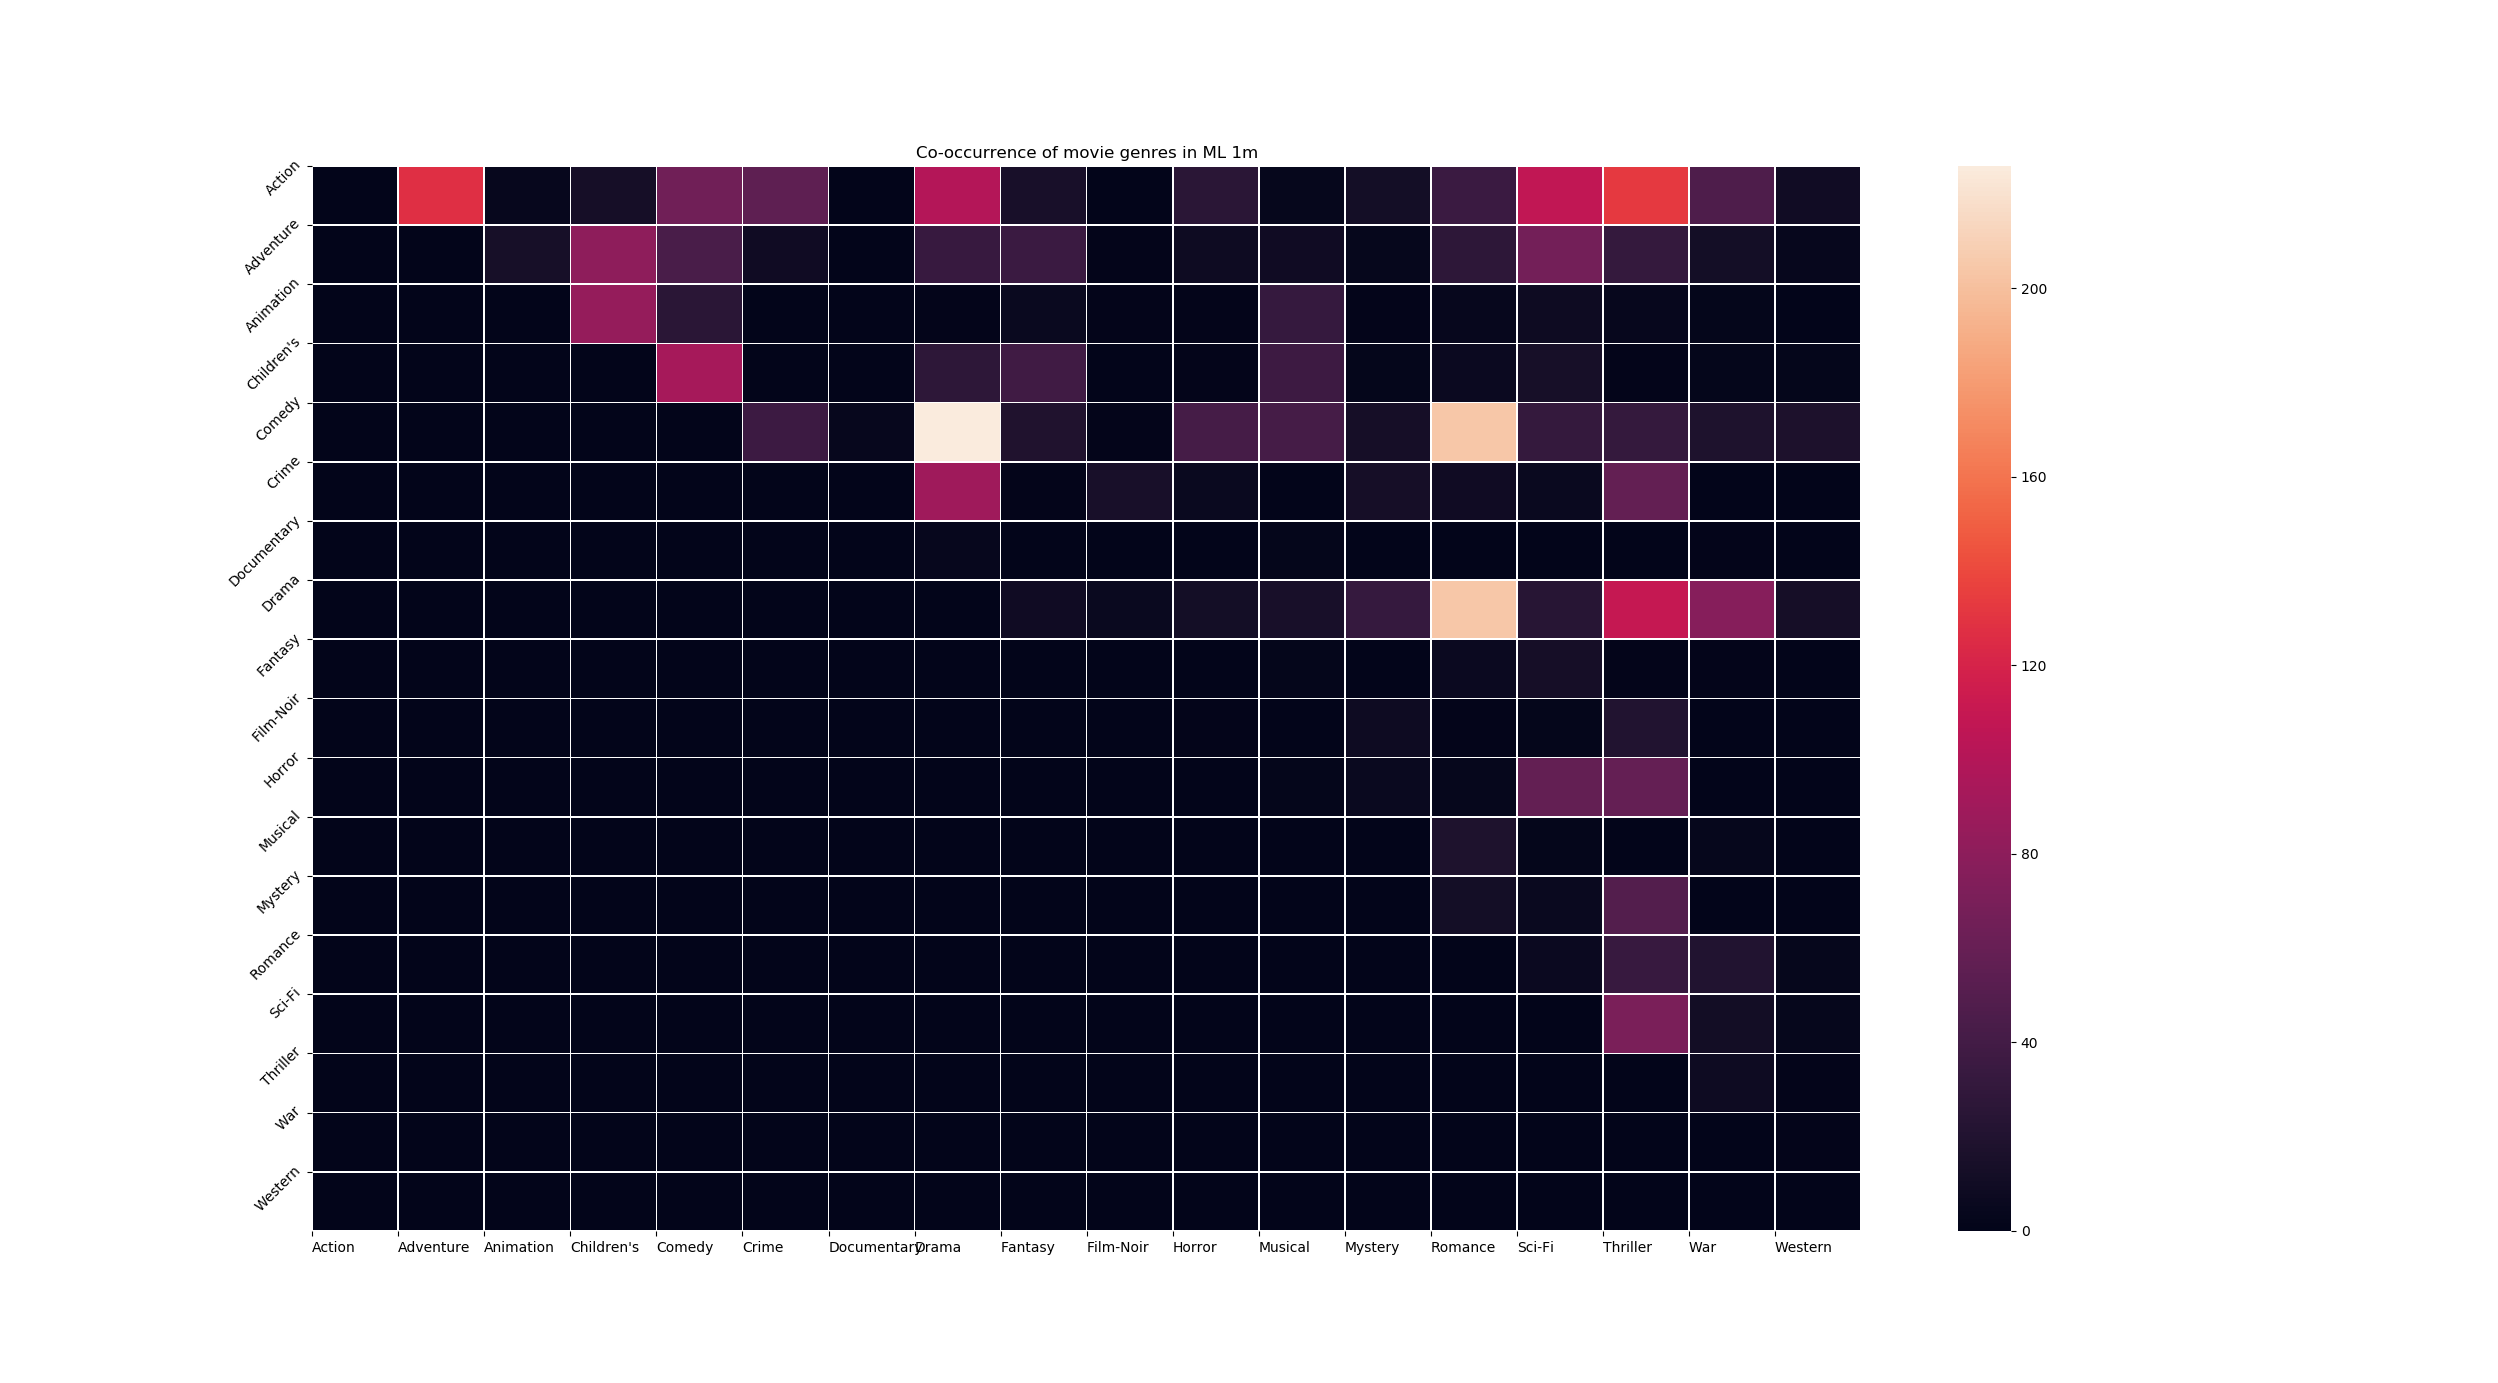
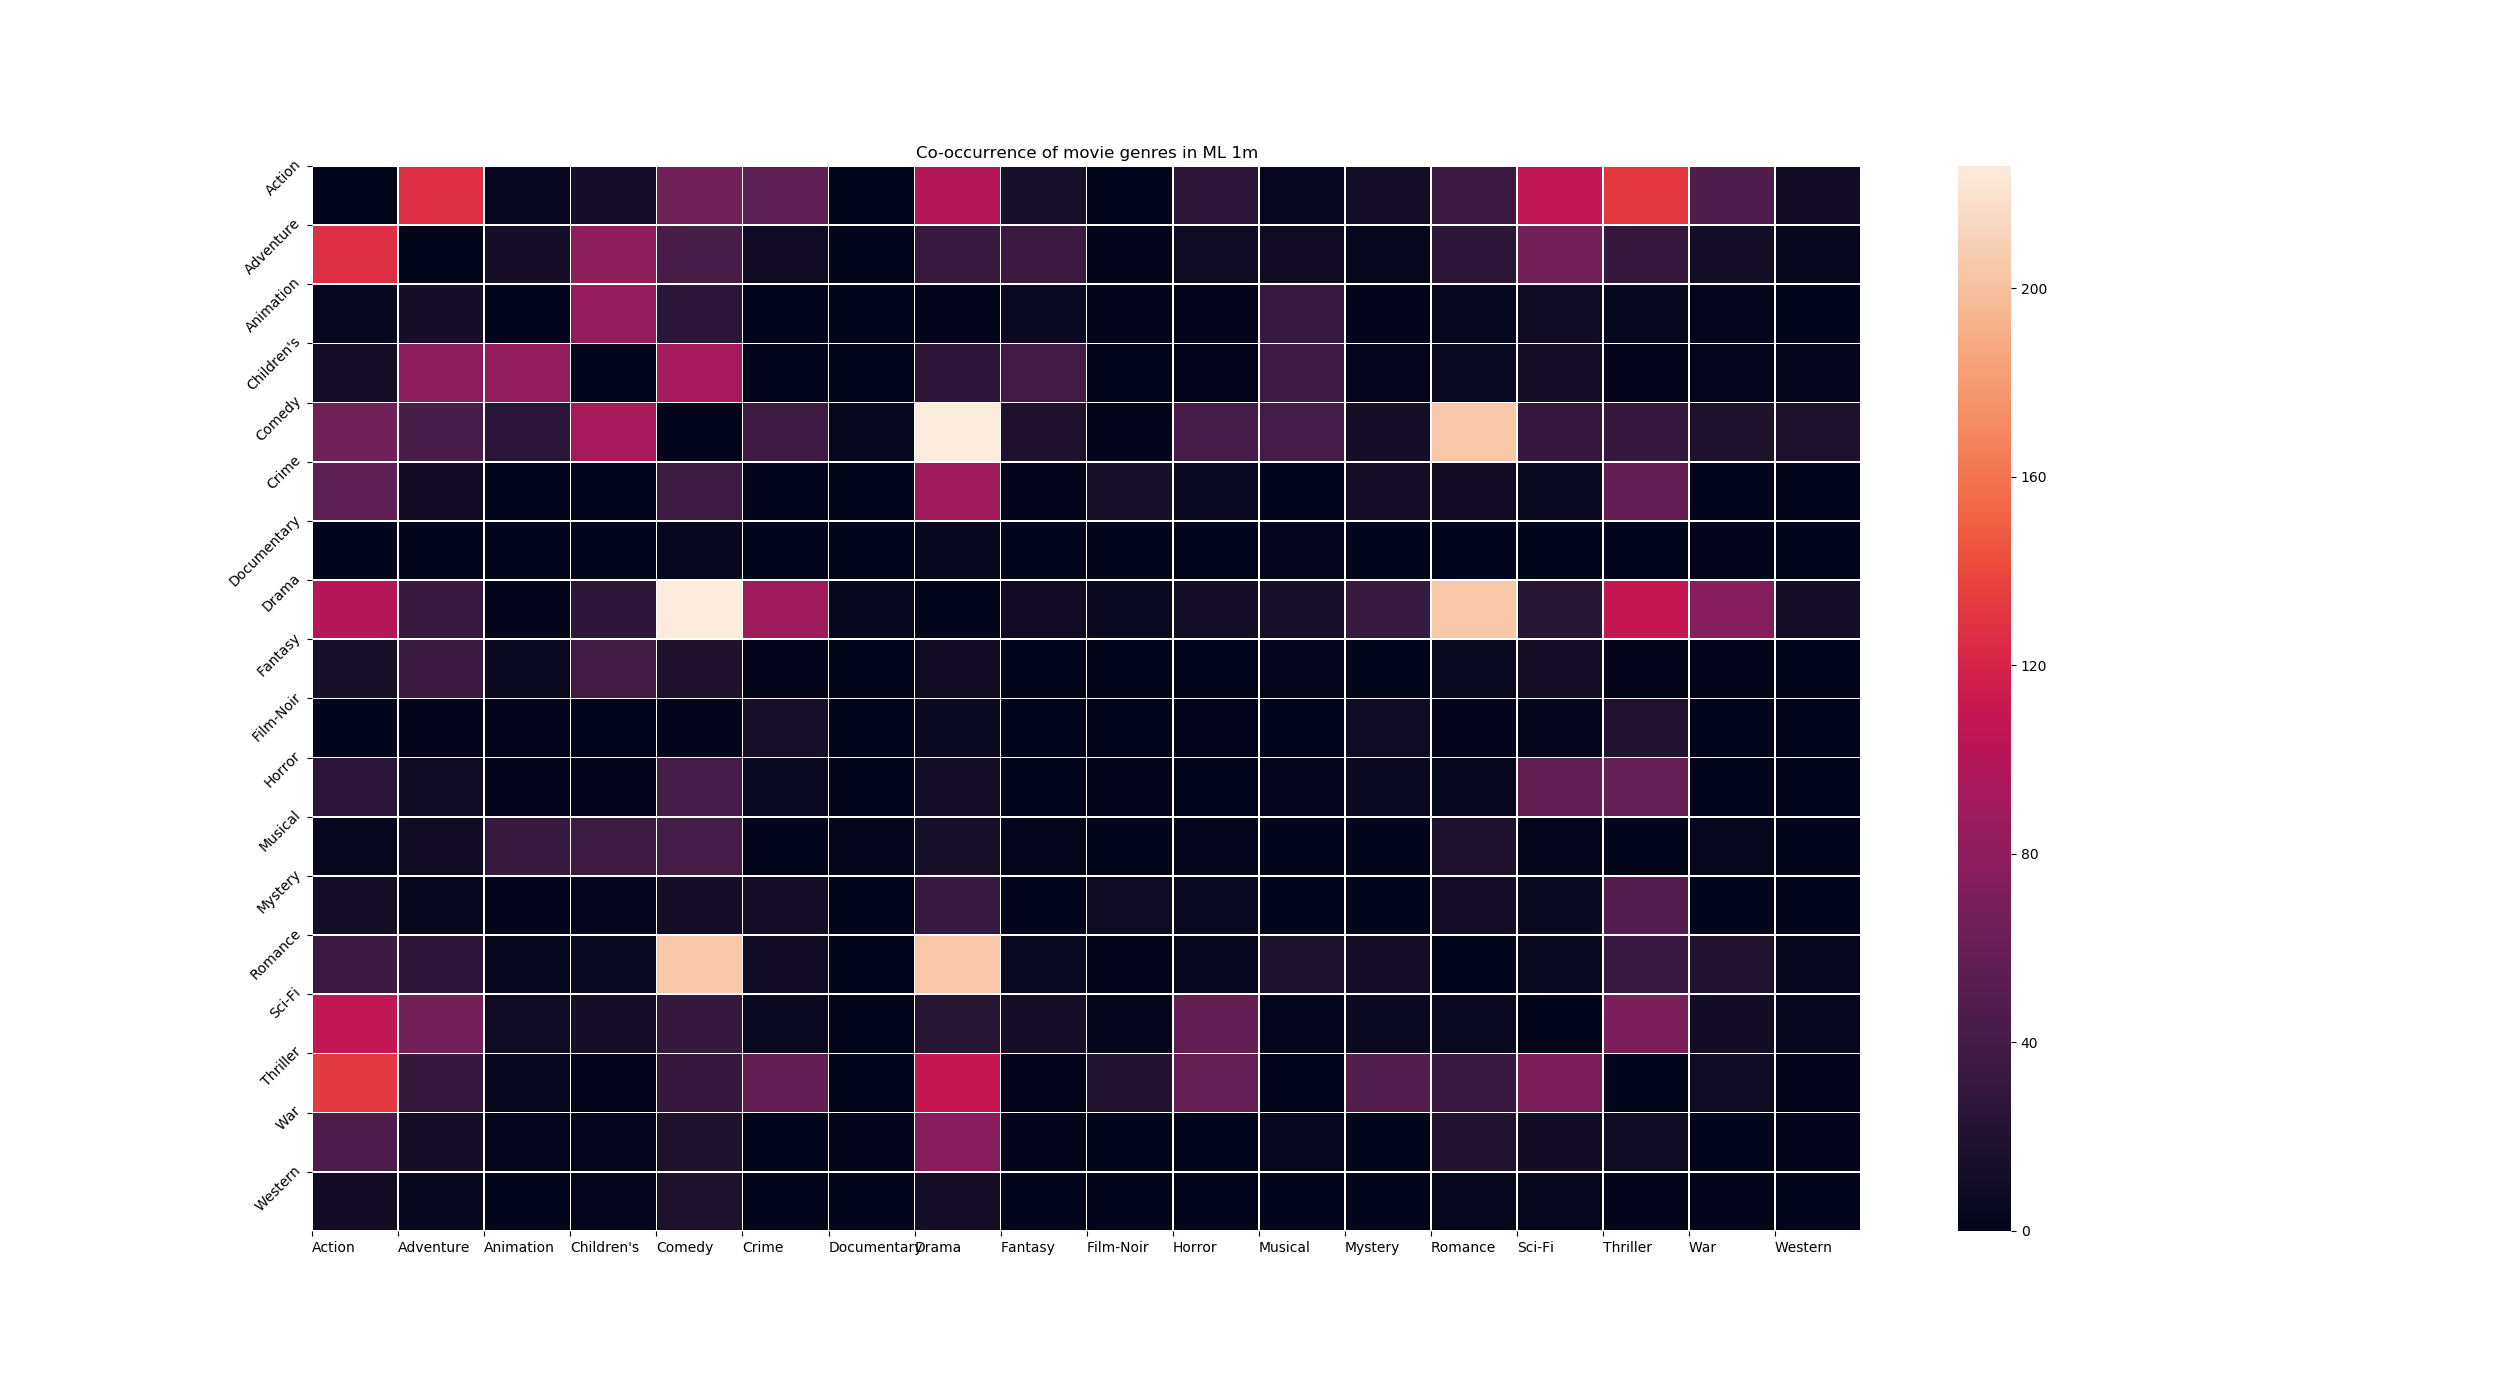
Add files via upload

diff --git a/code/FailureAnalysis.py b/code/FailureAnalysis.py
@@ -7,10 +7,10 @@ import sklearn.metrics as metrics
 
 def few_ratings():
     #X = MD.load_user_item_matrix_1m()
-    X = MD.load_user_item_matrix_100k()
+    X = MD.load_user_item_matrix_1m()
     X = Utils.normalize(X)
     #T = MD.load_gender_vector_1m()
-    T = MD.load_gender_vector_100k()
+    T = MD.load_gender_vector_1m()
     X_train, T_train = X[0:int(0.9 * len(X))], T[0:int(0.9 * len(X))]
     X_test, T_test = X[int(0.9 * len(X)):], T[int(0.9 * len(X)):]
     test_data = list(zip(X_test, T_test))
@@ -22,7 +22,8 @@ def few_ratings():
     model.fit(X_train, T_train)
     #Utils.ROC_plot(X_test, T_test, model)
     roc = True
-    for index, max_rating in enumerate([20, 50, 100, 1000]):
+    min_rating = [0, 21, 51, 101]
+    for index, max_rating in enumerate([20, 50, 100, 200]):
         selected_X = []
         selected_T = []
         for user, label in test_data:
@@ -30,9 +31,29 @@ def few_ratings():
             for rating in user:
                 if rating > 0:
                     counter += 1
-            if counter <= max_rating:
+            if min_rating[index] <= counter <= max_rating:
                 selected_X.append(user)
                 selected_T.append(label)
+        # resample:
+
+        """
+        sampled_X = []
+        sampled_T = []
+        for i in range(1000):
+            sample_id = np.random.randint(len(selected_X))
+            sampled_X.append(selected_X[sample_id])
+            sampled_T.append(selected_T[sample_id])
+        selected_X = sampled_X
+        selected_T = sampled_T
+        if len(selected_X)> 100:
+            data = list(zip(selected_X, selected_T))
+            np.random.shuffle(data)
+            selected_X = []
+            selected_T = []
+            for x, y in list(data)[:100]:
+                selected_X.append(x)
+                selected_T.append(y)
+        """
         probs = model.predict_proba(selected_X)
         preds = probs[:, 1]
         fpr, tpr, threshold = metrics.roc_curve(selected_T, preds)
@@ -40,7 +61,7 @@ def few_ratings():
         if roc:
             # method I: plt
             plt.subplot(2, 2, index+1)
-            plt.title('Receiver Operating Characteristic with useres having rated less than ' + str(max_rating) + ' making N=' + str(len(selected_X)))
+            plt.title('Receiver Operating Characteristic with users having rated between ' + str(max_rating) + " and " + str(min_rating[index]) + ' making N=' + str(len(selected_X)))
             plt.plot(fpr, tpr, 'b', label='AUC = %0.2f' % roc_auc)
             plt.legend(loc='lower right')
             plt.plot([0, 1], [0, 1], 'r--')
@@ -159,4 +180,4 @@ def loyal_ratings():
         plt.show()
 
 
-loyal_ratings()
+few_ratings()

diff --git a/code/MovieLensData.py b/code/MovieLensData.py
@@ -59,7 +59,7 @@ def load_user_item_matrix_100k_masked(max_user=943, max_item=1682):
         for line in f.readlines()[1:]:
             user_id, movie_id, rating = line.split(",")
             user_id, movie_id, rating = int(user_id), int(movie_id), float(rating)
-            if user_id < max_user and movie_id < max_item:
+            if user_id <= max_user and movie_id <= max_item:
                 df[user_id-1, movie_id] = rating
 
     save_object(df, "objs/user-item_Matrix_" + str(max_user) + "_" + str(max_item))
@@ -80,14 +80,33 @@ def load_user_item_matrix_1m(max_user=6040, max_item=3952):
 
     df = np.zeros(shape=(max_user, max_item))
     with open("ml-1m/ratings.dat", 'r') as f:
-        for line in f.readlines()[1:]:
+        for line in f.readlines():
             user_id, movie_id, rating, _ = line.split("::")
             user_id, movie_id, rating = int(user_id), int(movie_id), float(rating)
-            if user_id < max_user and movie_id < max_item:
+            if user_id <= max_user and movie_id <= max_item:
                 df[user_id-1, movie_id-1] = rating
 
-    save_object(df, "objs/user-item_Matrix_1m_" + str(max_user) + "_" + str(max_item))
+    #save_object(df, "objs/user-item_Matrix_1m_" + str(max_user) + "_" + str(max_item))
     return df
+
+
+def load_user_genre_matrix_1m(one_hot = False):
+    user_item = load_user_item_matrix_1m()
+    movie_genre = load_movie_genre_matrix_1m()
+    print(user_item.shape, movie_genre.shape)
+    user_genre = np.zeros(shape=(user_item.shape[0], movie_genre.shape[1]))
+    for user_index, user in enumerate(user_item):
+        for movie_index, rating in enumerate(user):
+            if rating > 0:
+                user_genre[user_index, :] += movie_genre[movie_index, :]
+    if one_hot:
+        u_g_one = np.zeros(shape=user_genre.shape)
+        for index, user in enumerate(user_genre):
+            max_index = list(user).index(np.max(user))
+            u_g_one[index, max_index] = 1
+        user_genre = u_g_one
+
+    return user_genre
 
 
 def load_gender_vector_1m(max_user=6040):
@@ -226,5 +245,3 @@ def load_movie_genre_matrix_1m():
             for g in genre:
                 matrix[int(id)-1, genres.index(g)] = 1
     return matrix
-
-

diff --git a/code/Utils.py b/code/Utils.py
@@ -352,6 +352,29 @@ def feature_selection(X, T, selection_method):
     return np.transpose(np.asarray(relevant_features))
 
 
+def select_male_female_different(X, T):
+    from scipy.stats import ttest_ind
+    X = np.transpose(X)
+    fs = []
+    p_vals = []
+    for movie in X:
+        male_ratings = []
+        female_ratings = []
+        for user_index, rating in enumerate(movie):
+            if rating > 0:
+                if T[user_index] == 1:
+                    male_ratings.append(rating)
+                else:
+                    female_ratings.append(rating)
+
+        f, p_value = ttest_ind(male_ratings, female_ratings)
+        # correct for 6040 test:
+        p_value *= len(X)
+        p_vals.append(p_value)
+        fs.append(f)
+    return fs, p_vals
+
+
 def normalize(X):
     from sklearn import preprocessing
     X = preprocessing.normalize(X)
@@ -362,6 +385,35 @@ def standardize(X):
     from sklearn import preprocessing
     X = preprocessing.scale(X)
     return X
+
+
+def center(X, axis=0, include_zero=True):
+    if axis==1:
+        X = np.transpose(X)
+
+    if include_zero:
+        mean = np.mean(X, axis=0)
+        X -= mean
+    else:
+        X = np.transpose(X)
+        centered_X = np.zeros(shape=X.shape)
+        for index, row in enumerate(X):
+            clean_row = []
+            for rating in row:
+                if rating > 0:
+                    clean_row.append(rating)
+            if len(clean_row) == 0:
+                mean = 0
+            else:
+                mean = np.mean(clean_row)
+            centered_X[index, :] = row - mean
+        X = centered_X
+        X = np.transpose(X)
+
+    if axis==1:
+        X = np.transpose(X)
+    return X
+
 
 def normalize2(X):
     X = np.transpose(X)
@@ -417,3 +469,4 @@ def is_loyal(user_ids, loyal_percent=0.4):
     return loyal_users
 
 #create_occupation_label_csv_100k()
+#print(center(np.asarray([[0. ,0. ,1. ,2.,3.],[0. ,1. ,4. ,5.,6.]]),axis=1, include_zero=False))

diff --git a/code/GenderClassification.py b/code/GenderClassification.py
@@ -2,6 +2,7 @@
 import MovieLensData as MD
 import Classifiers
 from Utils import one_hot
+import Utils
 import numpy as np
 from Utils import feature_selection, normalize, chi2_selection, normalize2
 from sklearn.feature_selection import f_regression, f_classif
@@ -10,13 +11,13 @@ from sklearn.feature_selection import f_regression, f_classif
 def one_million(classifier):
     max_user = 6040
     max_item = 3952
-    X = MD.load_user_item_matrix_1m()  # max_user=max_user, max_item=max_item)
+    #X = MD.load_user_item_matrix_1m()  # max_user=max_user, max_item=max_item)
+    X = MD.load_user_genre_matrix_1m(one_hot=True)
     T = MD.load_gender_vector_1m()  # max_user=max_user)
-    X = normalize2(X)
-    #X = feature_selection(X, T, f_regression)
+    #X = feature_selection(X, T, Utils.select_male_female_different)
+    #X = Utils.center(X,axis=1, include_zero=True)
     #X = chi2_selection(X, T)
     print(X.shape)
-    print(np.std(X,axis=0), len(np.std(X, axis=0)))
     classifier(X, T)
 
 
@@ -32,7 +33,6 @@ def one_hundert_k_obfuscated(classifier):
     X = MD.load_user_item_matrix_100k_masked()  # max_user=max_user, max_item=max_item)
     T = MD.load_gender_vector_100k()  # max_user=max_user)
     #X = chi2_selection(X, T)
-
     classifier(X, T)
 
 
@@ -52,7 +52,7 @@ if __name__ == '__main__':
     #Classifiers.log_reg(X, T)
     #Classifiers.MLP_classifier(X, T, max_item)
 
-    one_hundert_k(Classifiers.log_reg)
+    one_million(Classifiers.log_reg)
 
     stop = timeit.default_timer()
     print('Time: ', stop - start)

diff --git a/code/DataExploration.py b/code/DataExploration.py
@@ -134,8 +134,9 @@ def test_avg_rating_gender_per_movie():
     gender_dict = MD.gender_user_dictionary_1m()
     user_item = MD.load_user_item_matrix_1m()
     counter = 0
-    for movie_id in range(1, 3953):
-        ratings = user_item[:, movie_id-1]
+    print(len(user_item[0]))
+    for movie_id in range(len(user_item[0])):
+        ratings = user_item[:, movie_id]
         male_ratings = []
         female_ratings = []
         for user_id, rating in enumerate(ratings):
@@ -146,7 +147,7 @@ def test_avg_rating_gender_per_movie():
                     female_ratings.append(rating)
 
         _, p_value = ttest_ind(male_ratings, female_ratings)
-        if p_value < 0.05/6040:
+        if p_value < 0.05/len(user_item[0]):
             counter += 1
             #plt.bar(["male", "female"], [np.average(male_ratings), np.average(female_ratings)])
             #plt.show()
@@ -221,6 +222,8 @@ def show_correlation_genre():
                         pairs.append([index1, index2])
         for one, two in pairs:
             cooc[one, two] += 1
+            cooc[two, one] += 1
+
     import seaborn as sb
     fig, ax = plt.subplots()
     ax = sb.heatmap(cooc, linewidths=0.5)
@@ -239,8 +242,8 @@ def show_correlation_genre():
 
 
 #histogram()
-#test_avg_rating_gender_per_movie()
+test_avg_rating_gender_per_movie()
 #loyal_vs_diverse()
 #genre_exploration_1m()
 #rating_exploration_100k()
-show_correlation_genre()
+#show_correlation_genre()

diff --git a/code/Models.py b/code/Models.py
@@ -124,10 +124,10 @@ class Prior_classifier():
         index_max = values.index(max(values))
         keys = [key for key in self.frequnecies.keys()]
         self.majority_class = keys[index_max]
+        print("majority class:", self.majority_class)
         self.other_classes = list(range(self.nr_classes))
         self.other_classes.remove(self.majority_class)
         self.total_frequency = len(T)
-
 
     def predict(self, X):
         Y = []
@@ -139,7 +139,7 @@ class Prior_classifier():
             else:
                 outcome = self.other_classes[np.random.randint(0, self.nr_classes-1)]
             Y.append(outcome)
-        return Y
+        return np.asarray(Y)
 
     def predict_proba(self, X):
         Y = np.zeros(shape=(len(X), self.nr_classes))

diff --git a/code/OccupationClassification.py b/code/OccupationClassification.py
@@ -1,4 +1,5 @@
 import MovieLensData as MD
+import Utils
 import Classifiers
 import numpy as np
 
@@ -7,6 +8,7 @@ def one_million(classifier):
     max_item = 3952
     X = MD.load_user_item_matrix_1m()  # max_user=max_user, max_item=max_item)
     T = MD.load_occupation_vector_1m()  # max_user=max_user)
+    X = Utils.normalize(X)
     #print(T)
     #X = MD.feature_selection(X, T, f_regression)
     #X = MD.chi2_selection(X, T)
@@ -45,7 +47,7 @@ if __name__ == '__main__':
     #Classifiers.log_reg(X, T)
     #Classifiers.MLP_classifier(X, T, max_item)
 
-    one_hundert_k(Classifiers.svm_classifier)
+    one_million(Classifiers.prior)
 
     stop = timeit.default_timer()
     print('Time: ', stop - start)

diff --git a/code/Classifiers.py b/code/Classifiers.py
@@ -218,10 +218,14 @@ def bernoulli_bayes(X, T):
     return 0
 
 
-def prior(X, T):
+def prior(X, T, multiclass=False):
     from Models import Prior_classifier
-    model = Prior_classifier()
-    ROC_cv(X, T, model)
+    if multiclass:
+        model = Prior_classifier(nr_classes=21)
+        ROC_multiclass(X, T, model)
+    else:
+        model = Prior_classifier()
+        ROC_cv(X, T, model)
     return 0
 
 

diff --git a/code/AgeClassification.py b/code/AgeClassification.py
@@ -12,7 +12,7 @@ def one_million(classifier):
     max_item = 3952
     X = MD.load_user_item_matrix_1m()  # max_user=max_user, max_item=max_item)
     T = MD.load_age_vector_1m(border=30)  # max_user=max_user)
-    X = normalize(X)
+    #X = normalize(X)
     print(min(X[:,0]), np.mean(X[:,0]))
     #X = feature_selection(X, T, f_regression)
     #X = chi2_selection(X, T)
